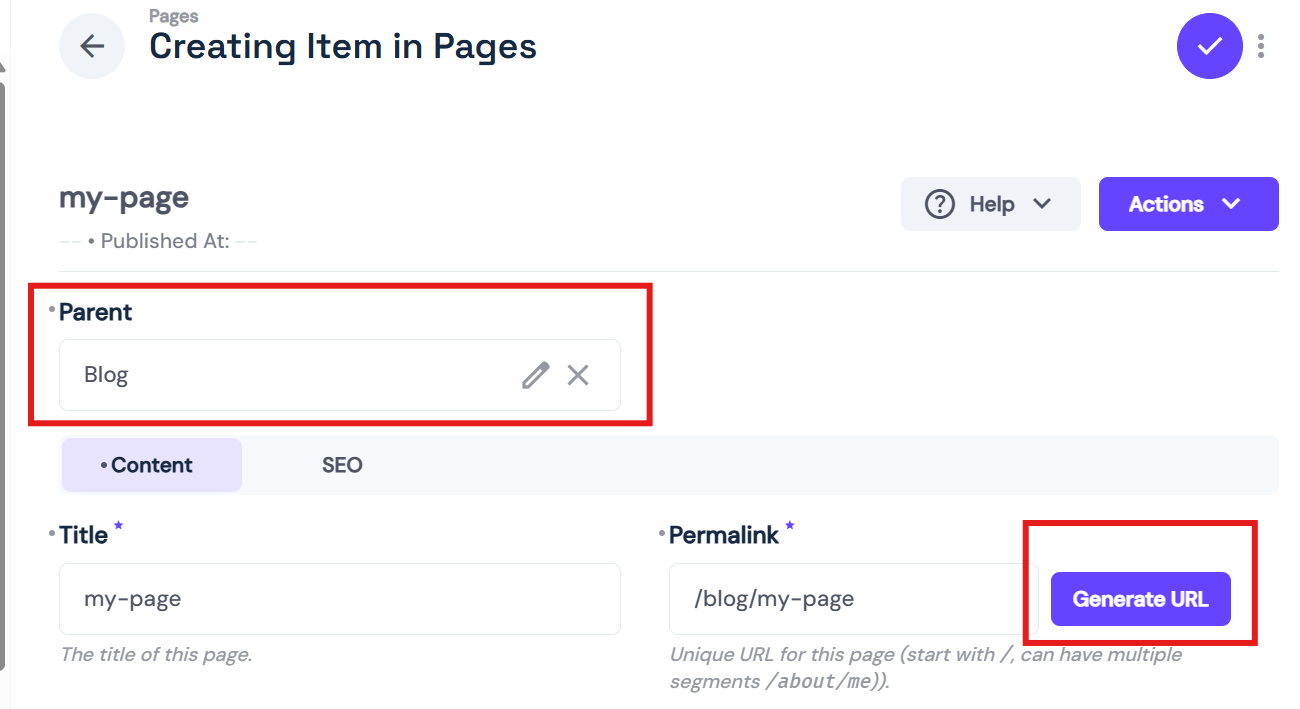
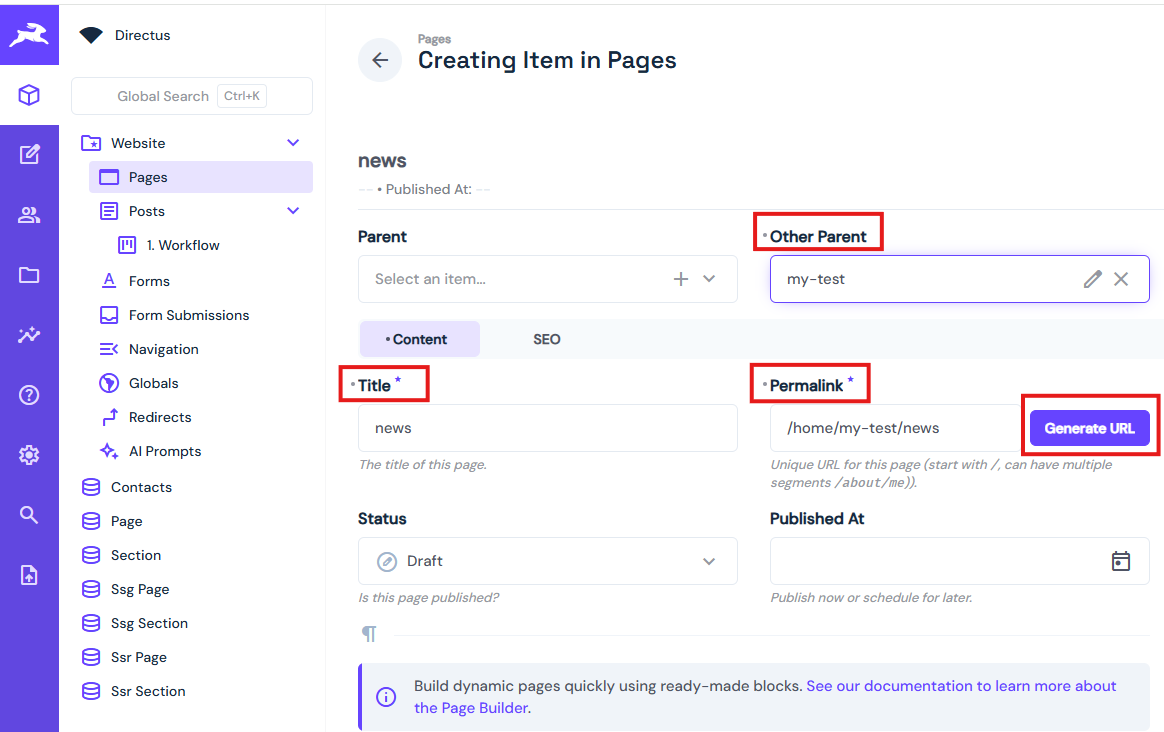
add flexible config for Permalink interface

diff --git a/src/interface.vue b/src/interface.vue
@@ -19,7 +19,7 @@
 </template>
 
 <script setup lang="ts">
-import {ref, computed, inject, Ref} from 'vue';
+import {ref, computed, inject, Ref, onMounted} from 'vue';
 import {useStores} from '@directus/extensions-sdk';
 
 // 1. Define Props with TypeScript Interface/Type
@@ -30,6 +30,8 @@ interface Props {
   collection: string;
   field: string;
   primaryKey: string | number;
+  titleField?: string;
+  parentField?: string;
 }
 
 const props = withDefaults(defineProps<Props>(), {
@@ -37,6 +39,8 @@ const props = withDefaults(defineProps<Props>(), {
   disabled: false,
   placeholder: 'Click Generate URL to create permalink',
   primaryKey: '+',
+  titleField: 'title',
+  parentField: 'parent',
 });
 
 // 2. Define Emitted Events with TypeScript
@@ -45,21 +49,57 @@ const emit = defineEmits<{
 }>();
 
 // 3. Inject Dependencies with explicit types
-// NOTE: Actual types for 'api' and 'values' would depend on the Directus SDK types.
-// We are using 'any' as a placeholder for unknown types.
 const api = inject('api') as any;
-const values = inject('values') as Ref<any>; // 'values' is typically a reactive object
+const values = inject('values') as Ref<any>;
 const {useNotificationsStore} = useStores();
 const notificationsStore = useNotificationsStore();
 
 // 4. Reactive State with explicit type
 const loading = ref(false);
+const collectionFields = ref<string[]>([]);
 
 // 5. Computed Properties with inferred types (or explicit return type)
 const currentPageId = computed((): string | number => values.value?.id || props.primaryKey);
-const currentTitle = computed((): string => values.value?.title || '');
+const currentTitle = computed((): string => values.value?.[props.titleField] || '');
+const currentParent = computed((): string | number | undefined => values.value?.[props.parentField]);
 
-// 6. Utility function with explicit types for arguments and return value.
+// 6. Fetch collection fields on mount
+onMounted(async () => {
+  try {
+    const response = await api.get(`/fields/${props.collection}`);
+    collectionFields.value = response.data.data.map((field: any) => field.field);
+    console.log('Available fields in collection:', collectionFields.value);
+  } catch (error) {
+    console.error('Error fetching collection fields:', error);
+  }
+});
+
+// 7. Validate field existence
+function validateFields(): boolean {
+  const missingFields: string[] = [];
+
+  if (!collectionFields.value.includes(props.titleField)) {
+    missingFields.push(props.titleField);
+  }
+
+  if (!collectionFields.value.includes(props.parentField)) {
+    missingFields.push(props.parentField);
+  }
+
+  if (missingFields.length > 0) {
+    notificationsStore.add({
+      title: 'Configuration Error',
+      text: `The following configured fields do not exist in the "${props.collection}" collection: ${missingFields.join(', ')}. Please check the interface configuration.`,
+      type: 'error',
+      dialog: true,
+    });
+    return false;
+  }
+
+  return true;
+}
+
+// 8. Utility function with explicit types for arguments and return value.
 // Converts text to URL-safe format.
 function slugify(text: string): string {
   return text
@@ -73,7 +113,7 @@ function slugify(text: string): string {
       .replace(/-+$/, '');
 }
 
-// 7. Async function with explicit types for arguments and return value
+// 9. Async function with explicit types for arguments and return value
 async function buildPath(pageId: string | number): Promise<string[]> {
   if (!pageId || pageId === '+') {
     return [];
@@ -81,18 +121,18 @@ async function buildPath(pageId: string | number): Promise<string[]> {
 
   try {
     // Await API call response, typing it for safety (using any for simplicity)
-    const response: any = await api.get(`/items/pages/${pageId}`, {
+    const response: any = await api.get(`/items/${props.collection}/${pageId}`, {
       params: {
-        fields: ['id', 'title', 'parent'],
+        fields: ['id', props.titleField, props.parentField],
       },
     });
 
     const page = response.data.data;
-    const slug = slugify(page.title || '');
+    const slug = slugify(page[props.titleField] || '');
 
-    if (page.parent) {
+    if (page[props.parentField]) {
       // Recursively builds the URL path by following parent relationships
-      const parentPath: string[] = await buildPath(page.parent);
+      const parentPath: string[] = await buildPath(page[props.parentField]);
       return [...parentPath, slug];
     }
 
@@ -103,40 +143,48 @@ async function buildPath(pageId: string | number): Promise<string[]> {
   }
 }
 
-// 8. Main function is kept as an async function
+// 10. Main function is kept as an async function
 async function generatePermalink() {
   console.group('🔗 Generate Permalink');
   console.log('Props:', props);
   console.log('Primary Key:', props.primaryKey);
+  console.log('Title Field:', props.titleField);
+  console.log('Parent Field:', props.parentField);
   console.log('Current Title:', currentTitle.value);
-  console.log('Parent ID:', values.value?.parent);
+  console.log('Parent ID:', currentParent.value);
+
+  // Validate fields before proceeding
+  if (!validateFields()) {
+    console.groupEnd();
+    return;
+  }
 
   loading.value = true;
 
   try {
     if (props.primaryKey === '+') {
-      console.log('📝 Creating NEW page');
+      console.log('🆕 Creating NEW page');
 
       if (!currentTitle.value) {
-        console.warn('❌ Title is empty!');
+        console.warn('⚠ Title is empty!');
         notificationsStore.add({
           title: 'Title Required',
-          text: 'Please enter a page title before generating the permalink. The permalink is created from the page title.',
+          text: `Please enter a value in the "${props.titleField}" field before generating the permalink.`,
           type: 'error',
-          dialog: true, // Show as dialog instead of toast
+          dialog: true,
         });
-        loading.value = false; // Stop loading immediately
+        loading.value = false;
         console.groupEnd();
         return;
       }
 
       const slug: string = slugify(currentTitle.value);
-      const parentId: string | number | undefined = values.value?.parent;
+      const parentId: string | number | undefined = currentParent.value;
 
       let path: string[] = [];
 
       if (parentId) {
-        console.log('📁 Building path with parent:', parentId);
+        console.log('📂 Building path with parent:', parentId);
         path = await buildPath(parentId);
       }
 
@@ -186,7 +234,6 @@ async function generatePermalink() {
 </script>
 
 <style scoped>
-/* Styles remain the same */
 .permalink-generator {
   display: flex;
   gap: 8px;

diff --git a/src/index.ts b/src/index.ts
@@ -7,6 +7,39 @@ export default defineInterface({
     icon: 'link',
     description: 'Auto-generate permalink based on page hierarchy',
     component: InterfaceComponent,
-    options: null,
+    options: [
+        {
+            field: 'titleField',
+            name: 'Title Field Name',
+            type: 'string',
+            meta: {
+                interface: 'input',
+                width: 'full',
+                options: {
+                    placeholder: 'title',
+                },
+                note: 'The field used to generate the current segment (e.g., "title").',
+            },
+            schema: {
+                default_value: 'title',
+            },
+        },
+        {
+            field: 'parentField',
+            name: 'Parent Page Relation Field',
+            type: 'string',
+            meta: {
+                interface: 'input',
+                width: 'full',
+                options: {
+                    placeholder: 'parent',
+                },
+                note: 'The M2O field name for the parent page (e.g., "parent_page").',
+            },
+            schema: {
+                default_value: 'parent',
+            },
+        },
+    ],
     types: ['string'],
 });

diff --git a/README.md b/README.md
@@ -80,7 +80,8 @@ docker-compose restart
 1. Go to **Settings** → **Data Model** → **Pages**
 2. Click on the **permalink** field
 3. Under **Interface**, select **Permalink Generator**
-4. Save changes
+4. Input Title field and Parent page which are existing in the data model/schema
+5. Save changes
 
 <img src="./docs/interface_config.png" alt="home" style="border: 1px solid #ccc;">
 
@@ -88,8 +89,8 @@ docker-compose restart
 
 When creating or editing a page:
 
-1. Enter the page **Title**
-2. Optionally select a **Parent** page
+1. Enter the page **Title** which you configured at the Permalink interface
+2. Optionally select a **Parent** page which you configured at the Permalink interface
 3. Click the **Generate URL** button next to the permalink field
 4. The permalink will be automatically generated based on the hierarchy
 
@@ -175,7 +176,7 @@ directus-extension-permalink-generator/
 ### How It Works
 
 1. User clicks "Generate URL" button
-2. Extension fetches current page data (title, parent)
+2. Extension fetches current page data (title, parent) and validation existing of configured fields.
 3. Recursively builds path by following parent relationships
 4. Converts each title to URL-safe slug
 5. Combines path segments with forward slashes
